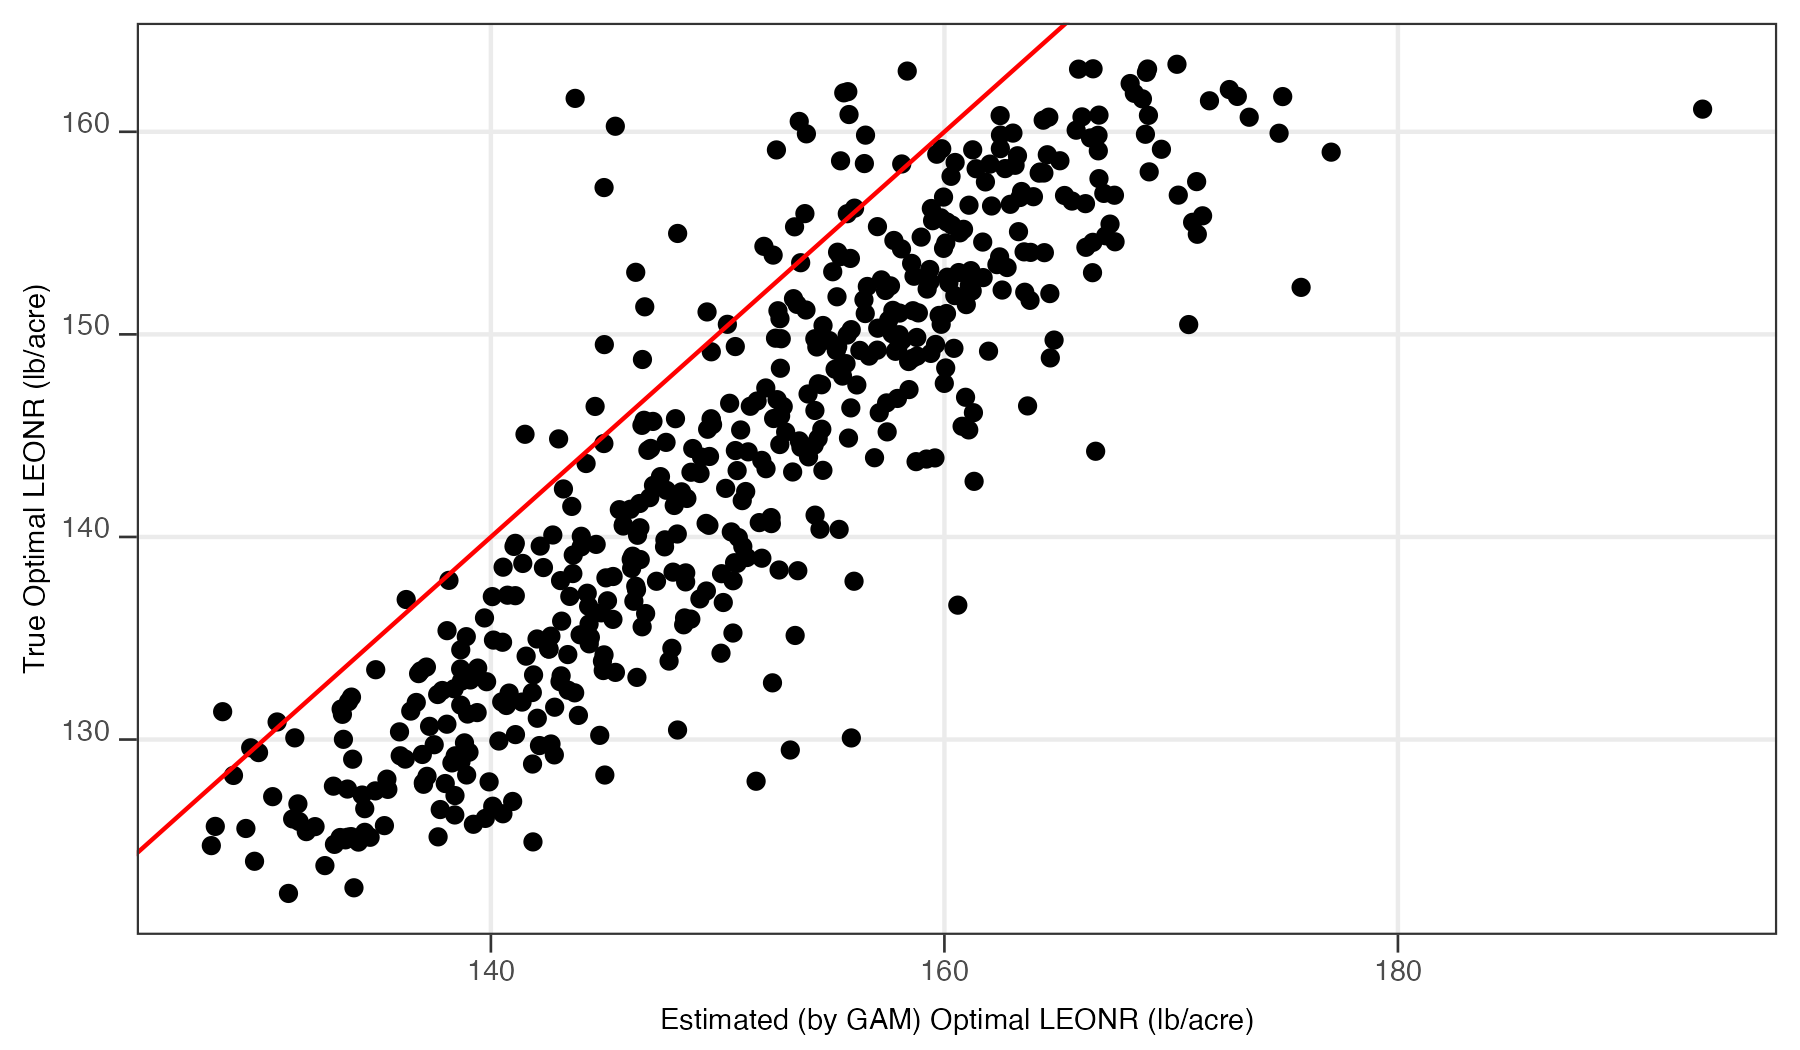
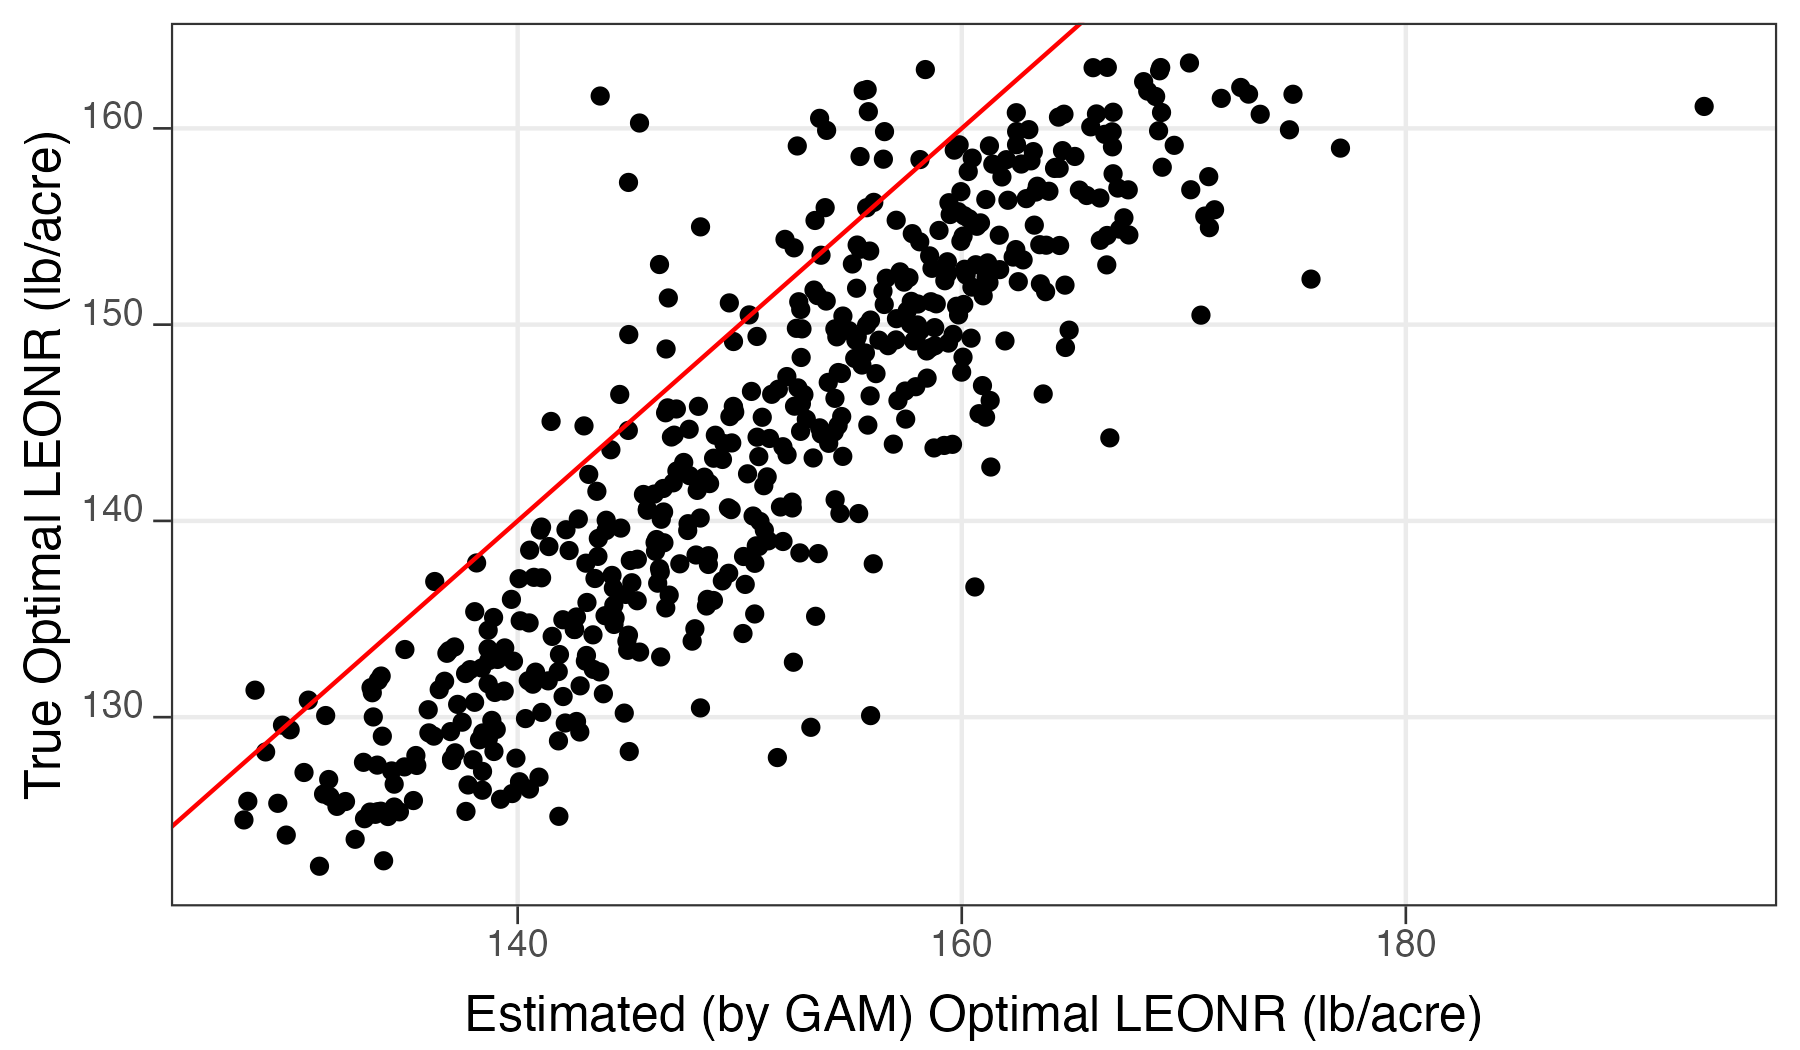
updates on the manuscript
+ method
+ results
+ making new figures

diff --git a/Writing/todo.md b/Writing/todo.md
@@ -1,0 +1,4 @@
++ [ ] show why BRF fails to predict
++ [ ] replace $\alpha_i$ and $\beta_i$ with something else 
++ [ ] write conclusion section
++ [ ] re-write introduction section
